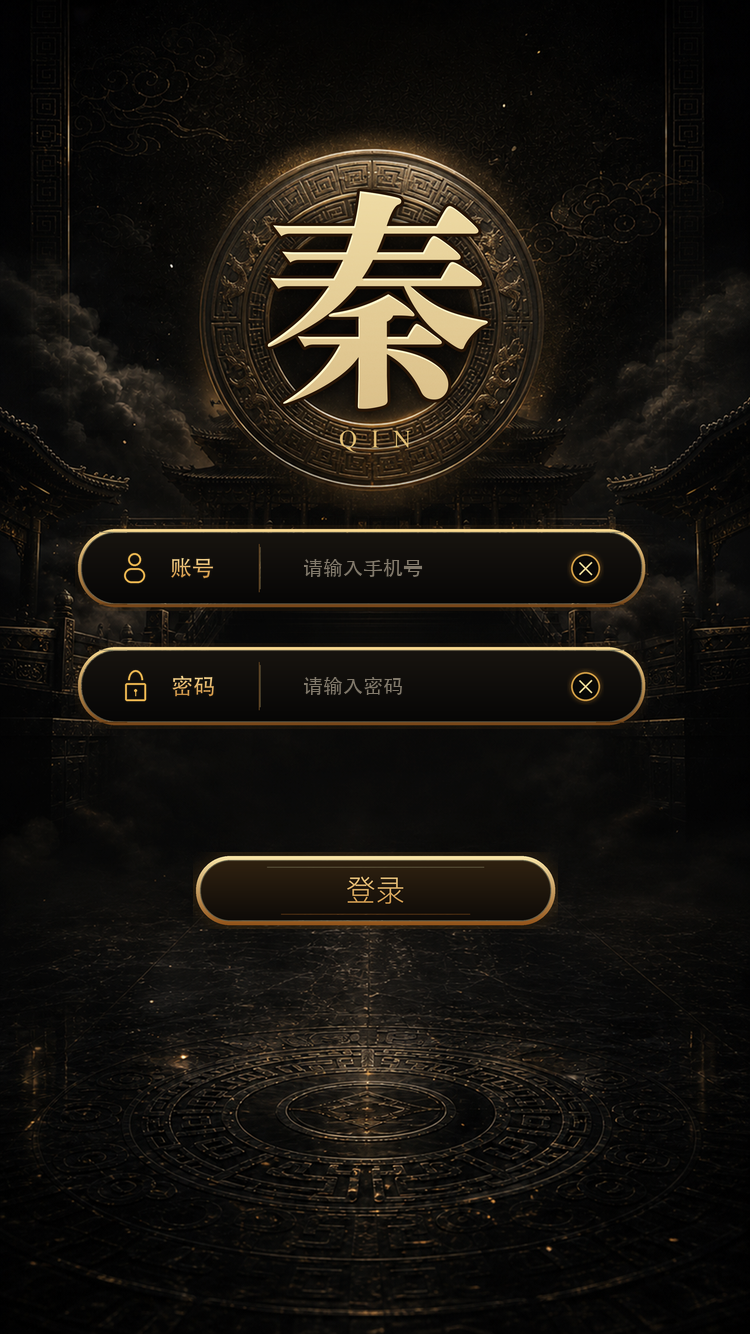
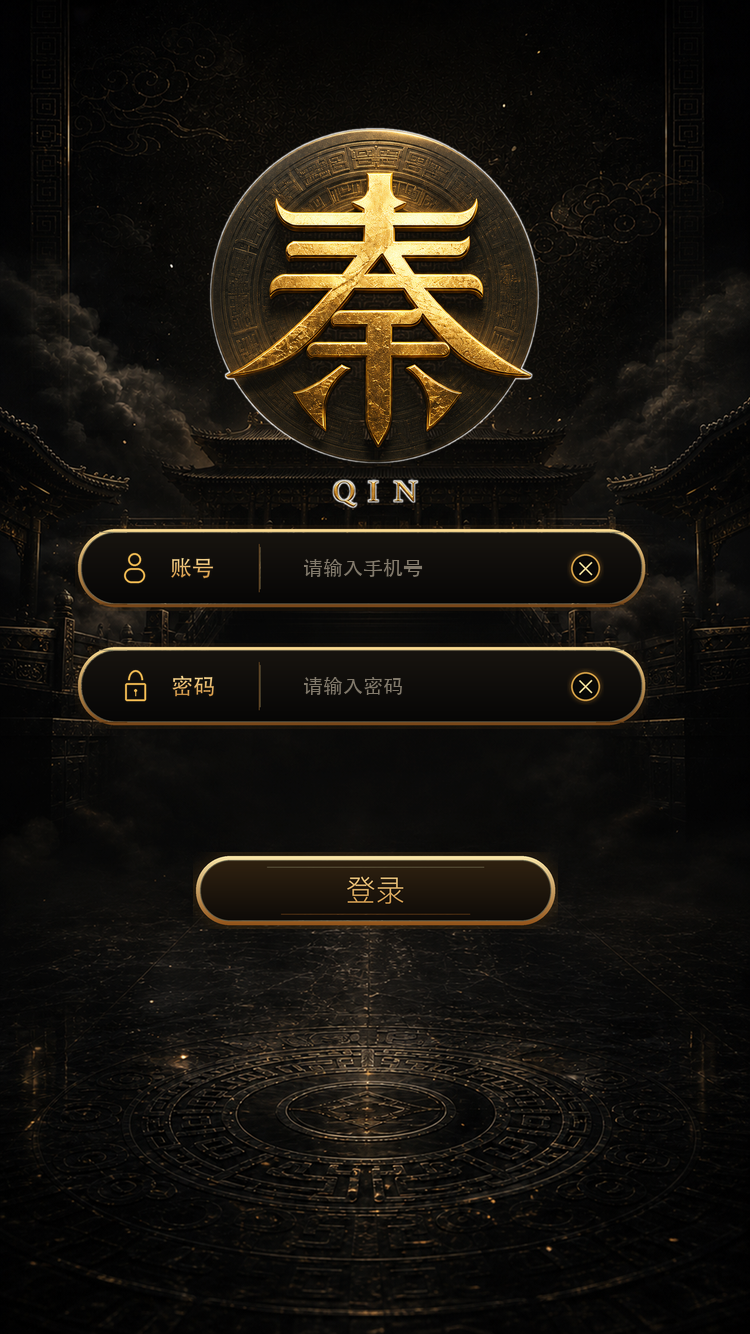
按确认效果图修正登录秦字LOGO
修改原因：
- 原登录LOGO使用系统字体重建的“秦”字，与最初确认效果图中的定制字形不一致。
- 按效果图完整落地原则，改回横向展开、尖角收笔的金属秦字和独立QIN排版。

主要修改：
- 新增400×400透明最终源图 qin_login_logo_final_source.png，并原位替换秦_登录LOGO.png。
- 更新登录美术生成脚本，优先直接使用确认源图，避免后续重建时退回系统字体或简化字形。
- 同步更新750×1334登录运行预览；自动裁剪边界更新为trimX=34、trimY=9、331×382。
- 保持原纹理UUID、SpriteFrame UUID、Prefab节点、Widget参数和登录业务逻辑不变，并补充项目记忆。

验证结果：
- 生成脚本已实际连续重跑，LOGO与运行预览输出哈希一致，确定性通过。
- LOGO为400×400 RGBA，实际透明边界与meta裁剪完全一致；最终源图与运行资源逐文件哈希一致。
- git diff --check及新增敏感信息扫描通过。

未验证风险：
- 尚未在Cocos Creator 2.4.13及不同分辨率设备中验证最终视觉尺寸和Widget布局。

Changed region(s): [[0.2453, 0.0922, 0.736, 0.3996]]

diff --git a/tools/generate_qin_login_skin.py b/tools/generate_qin_login_skin.py
@@ -18,6 +18,7 @@ PING_FONT = ROOT / "assets" / "font" / "PingFF.ttf"
 HEITI_FONT = Path("/System/Library/Fonts/STHeiti Medium.ttc")
 SONGTI_FONT = Path("/System/Library/Fonts/Supplemental/Songti.ttc")
 LATIN_FONT = Path("/System/Library/Fonts/Supplemental/Times New Roman.ttf")
+LOGIN_LOGO_SOURCE = ART_DIR / "qin_login_logo_final_source.png"
 
 
 def sc(value: float) -> int:
@@ -140,6 +141,18 @@ def make_background(source_path: Path, clean_source_path: Path) -> Path:
 
 
 def make_logo(source_path: Path) -> Path:
+    if LOGIN_LOGO_SOURCE.exists():
+        result = Image.open(LOGIN_LOGO_SOURCE).convert("RGBA")
+        if result.size != (400, 400):
+            result = ImageOps.contain(result, (400, 400), method=Image.Resampling.LANCZOS)
+            canvas = Image.new("RGBA", (400, 400), (0, 0, 0, 0))
+            canvas.alpha_composite(result, ((400 - result.width) // 2, (400 - result.height) // 2))
+            result = canvas
+
+        target = LOGIN_DIR / "秦_登录LOGO.png"
+        result.save(target, optimize=True)
+        return target
+
     work = prepare_background(source_path)
 
     # Accurate, controllable game mark.  The circle comes from the approved

diff --git a/AGENTS.md b/AGENTS.md
@@ -134,6 +134,7 @@ login.fire
 - 登录换皮已生成并接入：新增 `秦_登录背景.png`（750×1334）、`秦_输入框.png`（573×86）和 `秦_清除.png`（45×45），原位替换登录专用的 `账号.png`、`密码.png`、`手机登陆.png`；`panelLogin.prefab` 保持节点结构和节点名不变，只更新对应 SpriteFrame 引用及输入/占位文字颜色。
 - 登录背景、输入框和清除按钮原资源均被其他界面共用，因此本次采用新增登录专用资源并只重绑 `panelLogin`，没有覆盖 `背景.png`、`公用/输入框.png`、`CHACHA.png`。新 UUID 已被 Creator 资源库识别，静态尺寸和引用检查通过；实际运行显示与交互由用户在现有 Creator 实例中验证。
 - 登录页顶部LOGO已从会被四边Widget非等比拉伸的`秦_登录背景.png`中完整分离：圆环、“秦”和`QIN`现合并为新增的400×400 RGBA资源`秦_登录LOGO.png`，`panelLogin`新增同级节点`登录LOGO`，Sprite使用SIMPLE/CUSTOM且trimmed=false，Widget只启用TOP+HORIZONTAL_CENTER（alignFlags=17、top=118），固定宽高与1:1比例；背景仍保持750×1334 RGB及原UUID，只在原LOGO区域补回宫阙暗纹。生成脚本`tools/generate_qin_login_skin.py`使用原始带环源图生成独立LOGO，并用`art_sources/login/qin_login_background_clean_source.png`局部修复无LOGO背景；输入框、按钮、业务节点与逻辑均未改。实际多设备显示仍由用户在现有Creator实例中验证。
+- 2026-07-22 用户指出登录LOGO的宋体“秦”与最初确认效果图不一致；现已按用户提供的确认图改为横向展开、尖角收笔的定制金属“秦”字及独立`QIN`排版，继续使用原400×400透明资源、同一`.meta`/UUID、Prefab节点和Widget参数；自动裁剪边界已随新透明像素更新为`trimX=34、trimY=9、331×382`。最终源图保存为`art_sources/login/qin_login_logo_final_source.png`，生成脚本优先使用该源图，避免重建时退回系统字体；静态合成预览已更新，Creator实际显示仍待用户验证。
 - 当前 `assets/resources/project.manifest` 仍是旧热更新清单；换皮资源进入 Native 热更新或发布包前必须重新构建生成清单。
 - 登录换皮已以提交 `c0859bc` 推送到 `origin/main`；提交正文使用中文详细记录了资源、结构、验证结果和待验证风险。
 - 共享弹窗背景 `assets/imagesKK/公用/框.png` 已经用户确认并替换为黑曜石、暗金多层边框、秦纹标题栏和底部秦印收口风格。图片保持635×680 RGBA，`.meta`、纹理UUID、SpriteFrame UUID及九宫格边距左83/右81/上106/下42均未改变；12个场景或Prefab共34处原引用继续生效。PNG、尺寸、透明通道和引用数静态检查通过，Creator实际显示仍由用户验证。
